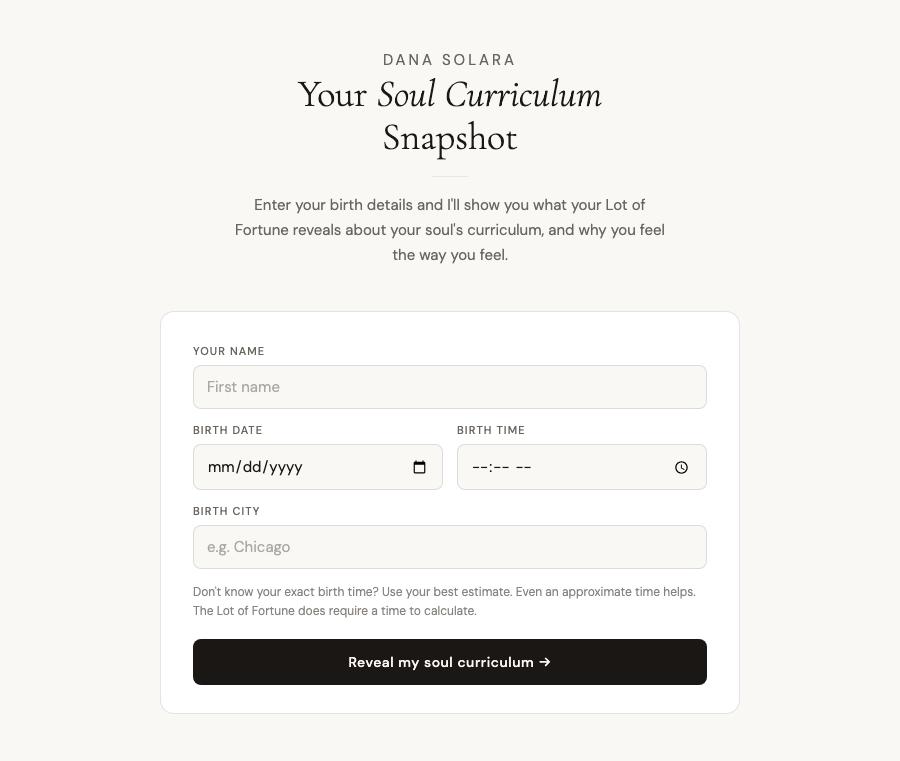
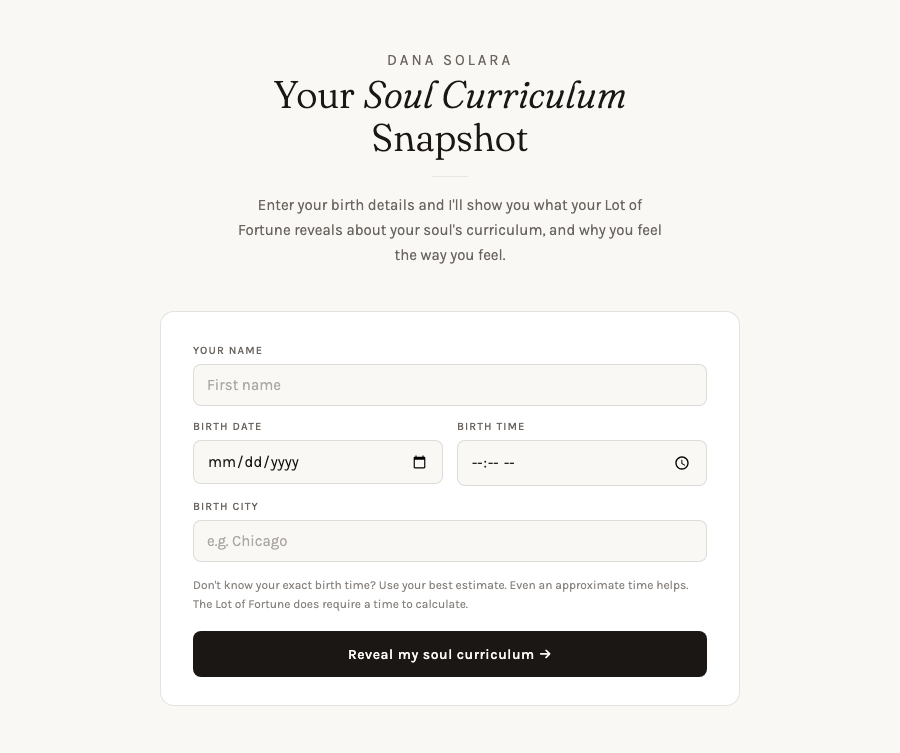
Refresh screenshots and stack table for Fraunces + Karla
Live tool migrated typography from Cormorant Garamond + DM Sans to
Fraunces + Karla. Screenshots recaptured from the updated production
form and from local fixtures rebuilt off the deployed HTML.

diff --git a/README.md b/README.md
@@ -135,7 +135,7 @@ A small shared module deduplicates the auth helper, JSON response wrapper, and t
 | Geo | GeoNames | The data source most chart providers proxy, with the regional fields preserved. |
 | Chart math | AstrologyAPI | Solid western-chart calculations. House system remapping done locally. |
 | LLM | Anthropic Claude (Sonnet 4.6) | Strong instruction-following for voice rules. Prompt built server-side. |
-| Typography | Cormorant Garamond + DM Sans | Matches the client's existing brand. |
+| Typography | Fraunces + Karla | Matches the client's existing brand. |
 
 The whole thing fits in under 700 lines of code across all files.
 
